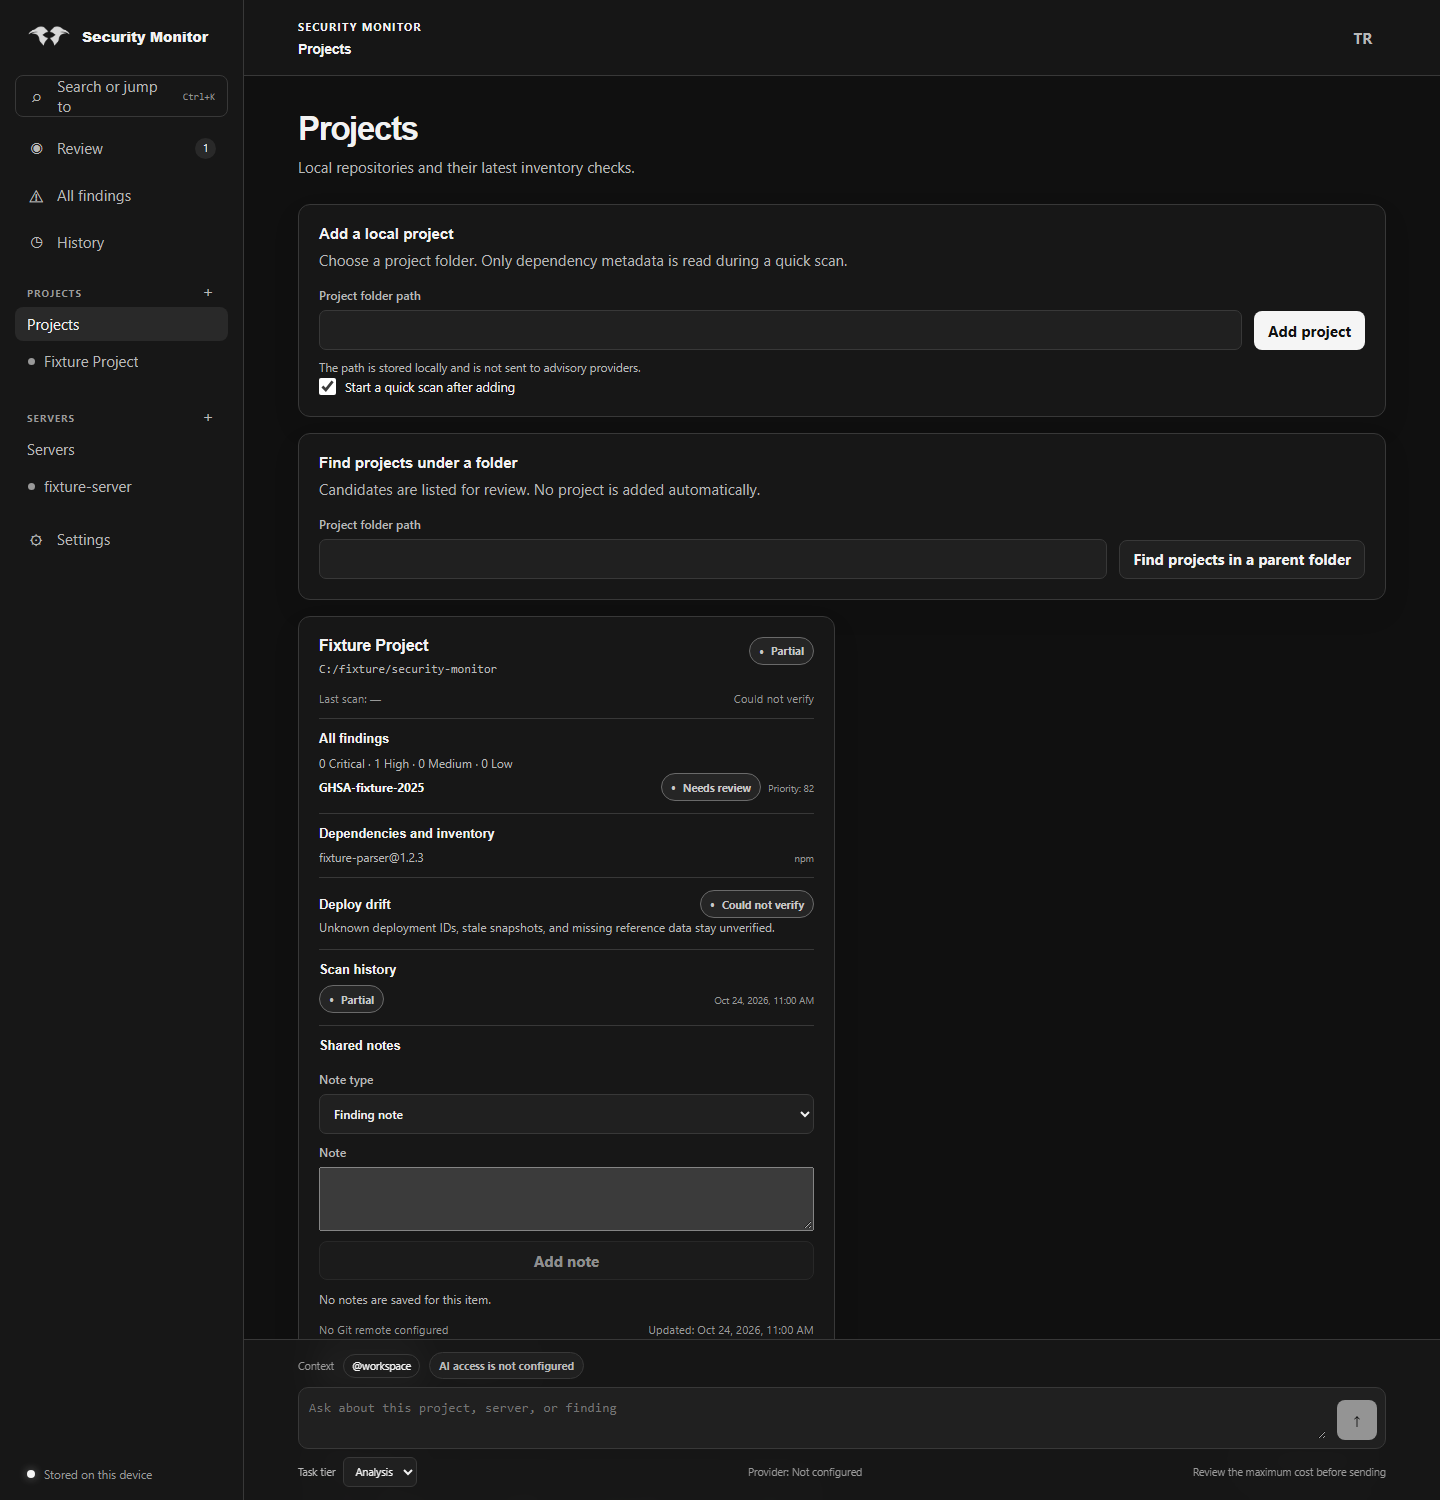
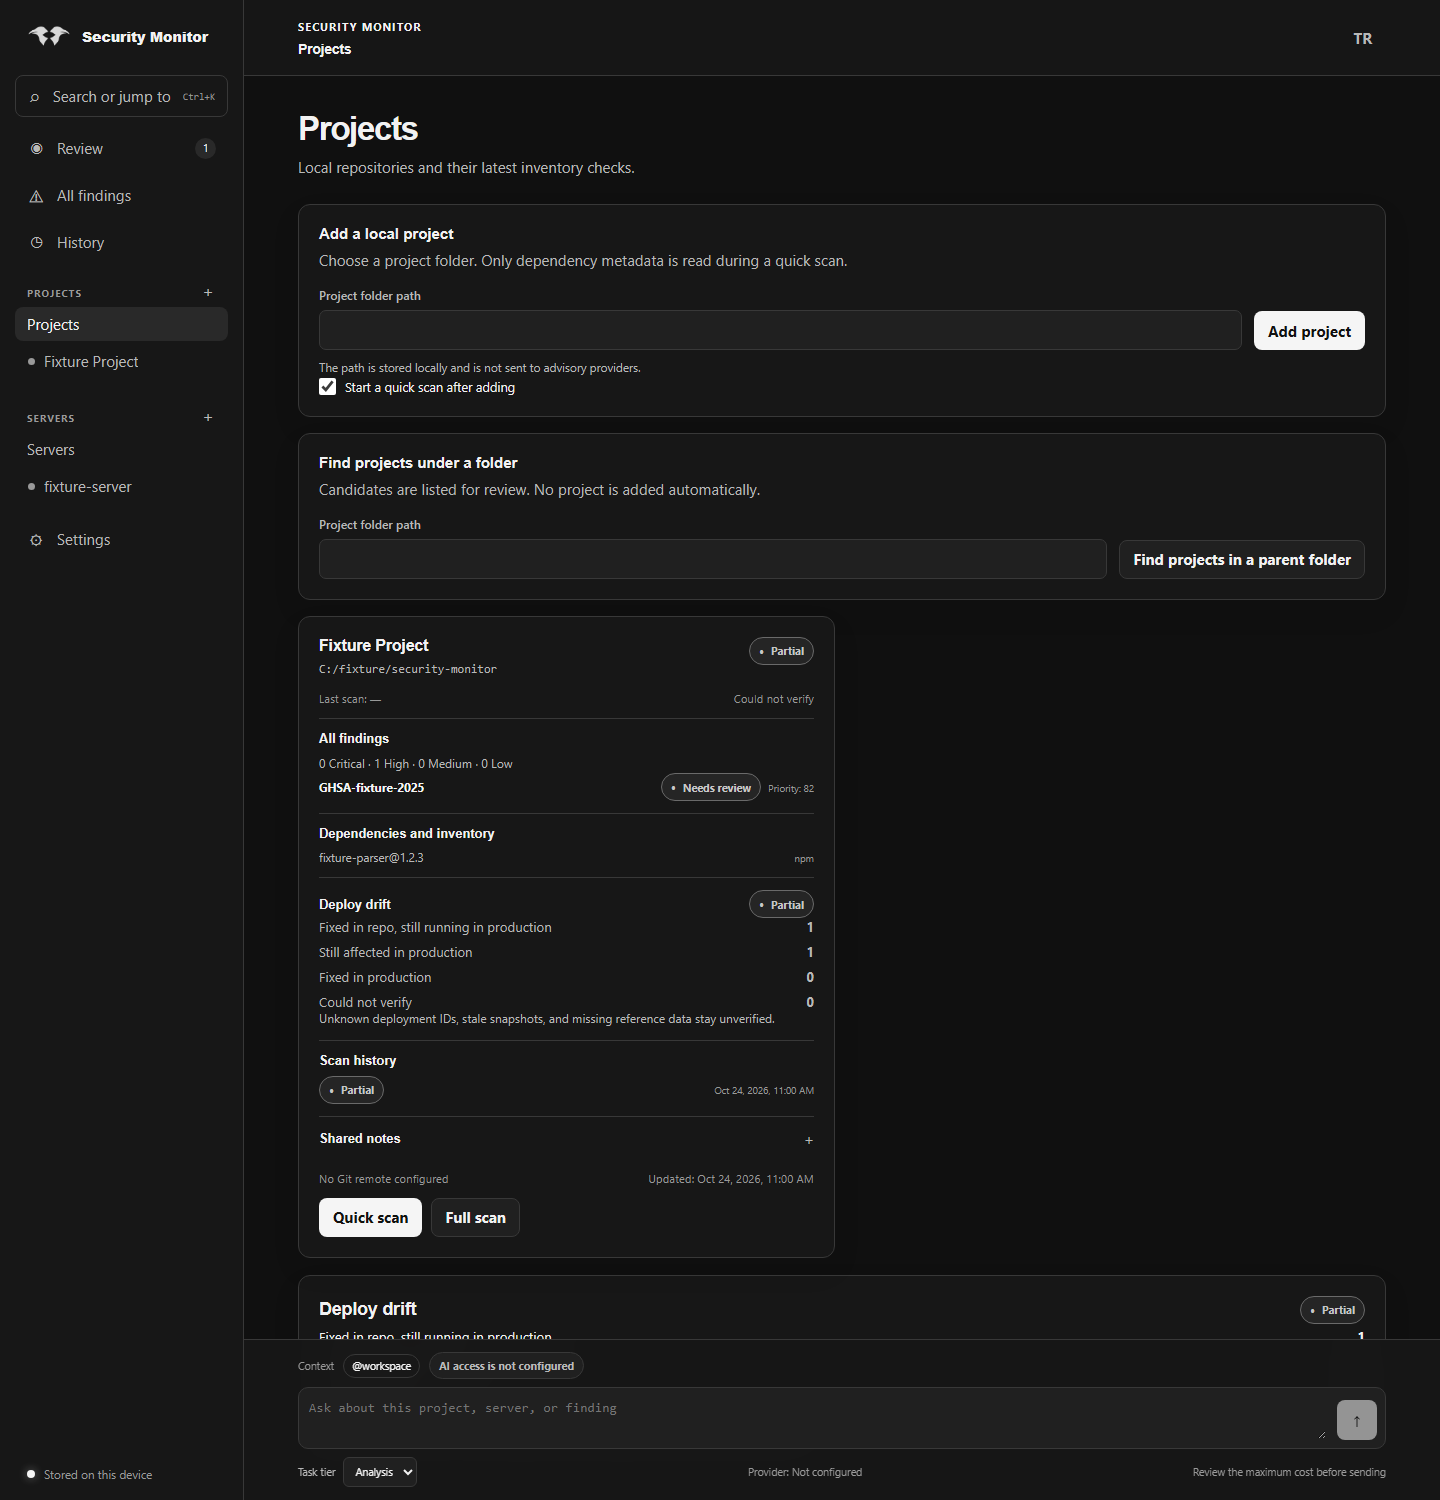
fix(desktop): show computed drift instead of a static placeholder
The project and workspace drift panels always rendered 'could not verify'. They now summarize the findings' repository and production status and tell the user to link a server when none is linked. Shared notes start collapsed so cards lead with their security state, and the sidebar search label no longer wraps.

diff --git a/apps/desktop/src/App.tsx b/apps/desktop/src/App.tsx
@@ -334,7 +334,7 @@ function Projects({ data, t, addProject, startScan, cancelScan, scanState, activ
           <div className="project-meta"><span>{t("projects.lastScan")}: {date(project.last_scan_at, data.settings.language)}</span><span>{project.reference_branch ? `${t("projects.referenceBranch")}: ${project.reference_branch}` : t("common.unverified")}</span></div>
           <section className="project-subsection"><h3>{t("navigation.findings")}</h3>{projectFindings.length === 0 ? <p>{t("common.unverified")}</p> : <><p className="risk-summary">{(["critical", "high", "medium", "low"] as const).map((severity) => `${projectFindings.filter((finding) => finding.severity === severity).length} ${t(`severity.${severity}`)}`).join(" · ")}</p><ul>{projectFindings.slice(0, 3).map((finding) => <li key={finding.id}><button className="text-button" onClick={() => { setPage("findings"); setFocusFindingId(finding.id); setContext(project.name); }}>{data.advisories.find((item) => item.canonical_id === finding.advisory_id)?.canonical_id ?? finding.advisory_id}</button><span><StatusTag value={finding.status} t={t} /> <small>{t("findings.priority")}: {finding.priority_score}</small></span></li>)}</ul></>}</section>
           <section className="project-subsection"><h3>{t("projects.inventory")}</h3>{projectComponents.length === 0 ? <p>{project.last_scan_at ? t("common.noResults") : t("common.unverified")}</p> : <ul>{projectComponents.slice(0, 8).map((component) => <li key={component.id}><span>{component.name}@{component.version}</span><small>{t(`ecosystems.${component.ecosystem}`) === `ecosystems.${component.ecosystem}` ? t("common.unverified") : t(`ecosystems.${component.ecosystem}`)}</small></li>)}</ul>}</section>
-          <section className="project-subsection"><div className="subsection-title"><h3>{t("drift.title")}</h3><StatusTag value="unverified" t={t} /></div><p>{t("drift.noSnapshotBody")}</p></section>
+          <section className="project-subsection"><DriftSummary findings={projectFindings} linkedServers={data.links.filter((link) => link.project_id === project.id).length} t={t} /></section>
           <section className="project-subsection"><h3>{t("projects.scanHistory")}</h3>{projectRuns.length === 0 ? <p>{t("common.unverified")}</p> : <ul>{projectRuns.map((run) => <li key={run.id}><StatusTag value={run.outcome} t={t} /><small>{date(run.finished_at ?? run.started_at, data.settings.language)}</small><ScanDiagnostics error={run.error} t={t} /></li>)}</ul>}</section>
           <MemoryNotes scope="project" scopeId={project.id} t={t} setNotice={setNotice} />
           <div className="project-meta"><span>{project.git_remote ? t("projects.remoteConfigured") : t("projects.noRemote")}</span><span>{t("common.updated")}: {date(project.updated_at, data.settings.language)}</span></div>
@@ -500,7 +500,16 @@ function StatusDialog({ finding, instance, t, close, onSave }: { finding: Findin
 }
 
 function Drift({ data, t }: { data: WorkspaceData; t: T }) {
-  return <section className="panel drift-section"><div className="panel-heading"><h2>{t("drift.title")}</h2><StatusTag value="unverified" t={t} /></div><p>{t("drift.noSnapshotBody")}</p><div className="drift-summary"><span>{t("drift.repository")}: {t("common.unverified")}</span><span>{t("drift.deployment")}: {data.assets.length || t("common.unknown")}</span></div></section>;
+  return <section className="panel drift-section"><DriftSummary findings={data.findings} linkedServers={data.links.length} t={t} /></section>;
+}
+
+function DriftSummary({ findings, linkedServers, t }: { findings: WorkspaceData["findings"]; linkedServers: number; t: T }) {
+  const repoFixedStillProduction = findings.filter((finding) => finding.repo_status === "fixed_in_repo" && finding.production_status === "still_affected").length;
+  const stillAffected = findings.filter((finding) => finding.production_status === "still_affected").length;
+  const fixedInProduction = findings.filter((finding) => finding.production_status === "fixed_in_production").length;
+  const unverified = findings.filter((finding) => finding.production_status === "unknown").length;
+  const tag = findings.length === 0 || unverified === findings.length ? "unverified" : stillAffected > 0 || unverified > 0 ? "partial" : "fixed_in_production";
+  return <><div className="subsection-title"><h3>{t("drift.title")}</h3><StatusTag value={tag} t={t} /></div>{linkedServers === 0 ? <p>{t("drift.noLinkedServer")}</p> : <ul className="drift-lines"><li><span>{t("drift.repoFixedStillProduction")}</span><strong>{repoFixedStillProduction}</strong></li><li><span>{t("drift.stillAffectedInProduction")}</span><strong>{stillAffected}</strong></li><li><span>{t("drift.fixedInProductionCount")}</span><strong>{fixedInProduction}</strong></li><li><span>{t("common.unverified")}</span><strong>{unverified}</strong></li></ul>}<p className="link-note">{t("drift.noSnapshotBody")}</p></>;
 }
 
 function History({ data, t }: { data: WorkspaceData; t: T }) {

diff --git a/apps/desktop/src/app.css b/apps/desktop/src/app.css
@@ -74,7 +74,7 @@ p { color: var(--muted); line-height: 1.6; }
 .nav-item.selected .nav-icon { color: var(--accent); }
 .nav-icon { display: grid; width: 18px; place-items: center; font-size: 1.05rem; }
 .nav-count { display: grid; min-width: 21px; height: 21px; place-items: center; margin-left: auto; padding: 0 5px; border-radius: 999px; color: var(--text); background: var(--surface-soft); font-size: .7rem; font-variant-numeric: tabular-nums; }
-.command-search { margin-bottom: 10px; border: 1px solid var(--line); }
+.command-search { margin-bottom: 10px; border: 1px solid var(--line); white-space: nowrap; overflow: hidden; text-overflow: ellipsis; }
 .command-search kbd { margin-left: auto; color: var(--dim); font-size: .65rem; }
 .sidebar-section { display: grid; gap: 3px; margin: 10px 0; }
 .sidebar-section-header { display: flex; align-items: center; justify-content: space-between; padding-right: 7px; }
@@ -295,3 +295,11 @@ td:first-child { color: var(--text); } .cell-subtitle { display: block; max-widt
 .server-links .simple-list li { display: flex; align-items: center; justify-content: space-between; gap: 12px; }
 .link-form { display: grid; gap: 10px; }
 .link-note { margin: 0; color: var(--muted); font-size: .8rem; line-height: 1.45; }
+.drift-lines { display: grid; gap: 6px; margin: 4px 0 12px; padding: 0; list-style: none; }
+.drift-lines li { display: flex; justify-content: space-between; gap: 12px; font-size: .88rem; }
+.memory-notes > summary { display: flex; align-items: center; cursor: pointer; list-style: none; }
+.memory-notes > summary::-webkit-details-marker { display: none; }
+.memory-notes > summary h3 { margin: 0; }
+.memory-notes > summary::after { content: "+"; margin-left: auto; color: var(--muted); }
+.memory-notes[open] > summary::after { content: "−"; }
+.memory-notes[open] > summary { margin-bottom: 10px; }

diff --git a/apps/desktop/src/MemoryNotes.tsx b/apps/desktop/src/MemoryNotes.tsx
@@ -78,8 +78,9 @@ export function MemoryNotes({ scope, scopeId = null, t, setNotice }: {
     }
   }
 
-  return <section className="memory-notes project-subsection">
-    <h3>{t("memory.title")}</h3>
+  // Notes stay collapsed so each project and server card leads with its security state.
+  return <details className="memory-notes project-subsection" open={memories.length > 0 && scope === "global"}>
+    <summary><h3>{t("memory.title")}{memories.length > 0 ? ` (${memories.length})` : ""}</h3></summary>
     <form className="memory-create" onSubmit={(event) => void add(event)}>
       <label className="field"><span>{t("memory.kind")}</span><select value={kind} onChange={(event) => setKind(event.target.value as MemoryKind)}>
         {(["finding_note", "user_decision", "project_context", "failed_fix", "agent_summary"] as const).map((value) => <option value={value} key={value}>{t(`memory.kinds.${value}`)}</option>)}
@@ -98,5 +99,5 @@ export function MemoryNotes({ scope, scopeId = null, t, setNotice }: {
       </div>
       <small>{t("memory.expires")}: {memory.expires_at ? new Date(memory.expires_at).toLocaleDateString() : t("common.unknown")}</small>
     </li>)}</ul>}
-  </section>;
+  </details>;
 }
